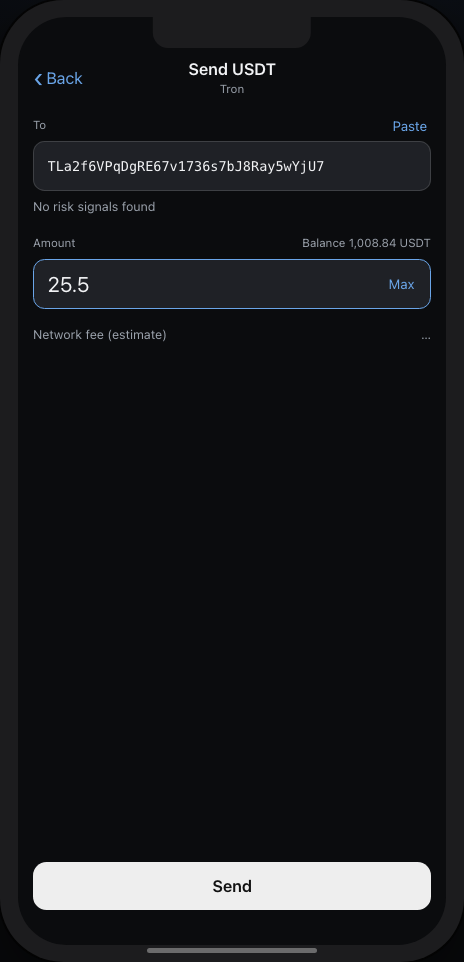
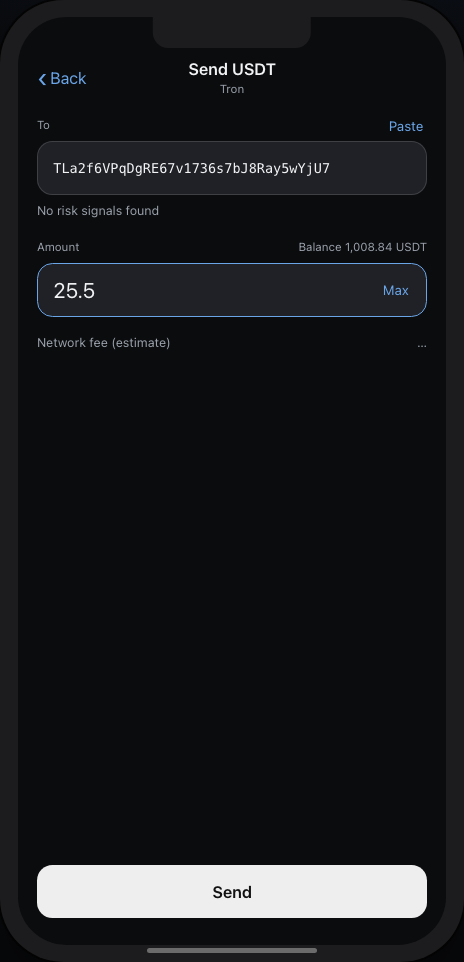
Polish: Send and dialog radii, safe areas, QR ring; design system doc and phone-mode docs

diff --git a/src/style.css b/src/style.css
@@ -154,7 +154,7 @@
   display: flex;
   flex-direction: column;
   min-height: 100%;
-  padding: 0 16px 36px;
+  padding: 0 20px calc(28px + var(--safe-bottom, 0px));
 }
 .send-nav {
   display: grid;
@@ -232,10 +232,10 @@
   display: flex;
   align-items: center;
   gap: 8px;
-  height: 52px;
-  padding: 0 12px;
+  height: 56px;
+  padding: 0 14px;
   border: 1px solid var(--send-field-line);
-  border-radius: 12px;
+  border-radius: 16px;
   background: var(--send-field-bg);
 }
 .send-field:focus-within {
@@ -367,10 +367,10 @@
   color: var(--phone-dim);
 }
 .send-submit {
-  height: 50px;
+  height: 54px;
   min-height: var(--send-touch);
   border: none;
-  border-radius: 14px;
+  border-radius: 16px;
   background: var(--send-primary-bg);
   color: var(--send-primary-text);
   font-size: 17px;
@@ -443,8 +443,8 @@
 .phone-dialog {
   width: 100%;
   max-width: 300px;
-  padding: 20px 16px 12px;
-  border-radius: 14px;
+  padding: 22px 16px 12px;
+  border-radius: 22px;
   background: var(--send-dialog-bg);
   color: var(--send-dialog-text);
   text-align: center;
@@ -494,6 +494,7 @@
   margin: 0 0 14px;
 }
 .receive-qr-frame {
+  box-shadow: 0 0 0 1px rgba(0, 0, 0, 0.1);
   width: 176px;
   height: 176px;
   padding: 6px;

diff --git a/docs/designs/design-system.md b/docs/designs/design-system.md
@@ -1,0 +1,29 @@
+# Design system (studio chrome and phone)
+
+Two surfaces, two palettes. **The studio** (gallery, top bar, sidebar, editor, device dock) is a dark, neutral developer
+tool. **The phone** renders a wallet, so it has its own light and dark palettes and an iOS-flavoured grouped layout.
+
+## Foundations
+- **Tokens:** `src/styles/tokens.css` (surfaces, hairlines, text steps, radii, shadows, motion), one cool accent for the
+  chrome (`--studio-accent`) and the wallet blue (`--accent`) kept for the phone. `[hidden]` always wins over a display rule.
+- **Type:** Inter (variable, self-hosted via `@fontsource-variable/inter`, no external request) for the studio; the phone
+  uses the platform font (SF on iOS, Google Sans/Roboto on Android) with Inter as the fallback. JetBrains Mono for code
+  and addresses. Tight tracking on titles, tabular numbers on every amount.
+- **Icons:** Lucide (ISC), 24px stroke icons, 1.75 stroke, through `src/ui/icons.ts` (`icon()` and `iconButton()`).
+  Only the icons listed there reach the bundle. Icons are decorative; the button carries the accessible name.
+- **Radii:** 6 / 8 / 12 / 16 / 22 / pill. **Spacing:** 4-pt steps, 16 px gutters. **Motion:** 140 ms ease-out, none under
+  `prefers-reduced-motion`.
+
+## Components
+- Buttons: `.btn`, `.icon-btn` (36 px, hairline border, hover lift), ghost variant. Segmented control: `.segmented`.
+- Device dock: one panel under the phone: platform (iOS / Android), appearance (light / dark), Share menu, Deploy.
+- Menu (`src/ui/menu.ts`): arrow keys, Enter, Esc, outside click; focus returns to the trigger. Toast (`toast.ts`)
+  replaces `alert()` for confirmations.
+- Phone: cards on a quiet canvas (`--ph-bg`, `--ph-card`, `--ph-line`), large title, grouped token list, Send (filled with
+  the token accent) and Receive (outlined) with arrow icons, 54 px high.
+
+## Phone mode
+A link opens as the bare phone interface on a phone (see CONTRIBUTING, "Phone mode"). Safe areas come from
+`--safe-top` / `--safe-bottom`: 32 px / 0 on the framed device, `env(safe-area-inset-*)` on a real phone.
+
+Screenshots: `docs/designs/redesign/` (regenerated by `e2e/phone-mode.spec.ts`).

diff --git a/CONTRIBUTING.md b/CONTRIBUTING.md
@@ -28,6 +28,12 @@ case-insensitively; an unknown list shows a message and the gallery, an unknown 
 back to the default. Other query parameters are preserved. Example:
 `?list=aegis-super-list&network=Tron&token=USDT`.
 
+**Phone mode.** On a phone the same link opens as the bare phone interface: no sidebar, editor or toolbar, edge to
+edge, with iOS or Android chrome and light or dark taken from the device. A desktop can ask for it with
+`&view=phone` (the phone drawn as a device, centred; Share > Copy phone link adds it), and `&view=studio` forces the
+full studio even on a phone. The rule lives in `src/share-link/phone-mode.ts`: a viewport up to 640 px, or a touch
+device up to 900 px, counts as a phone.
+
 ### Adding a token to an existing list
 
 1. Fork this repo.
